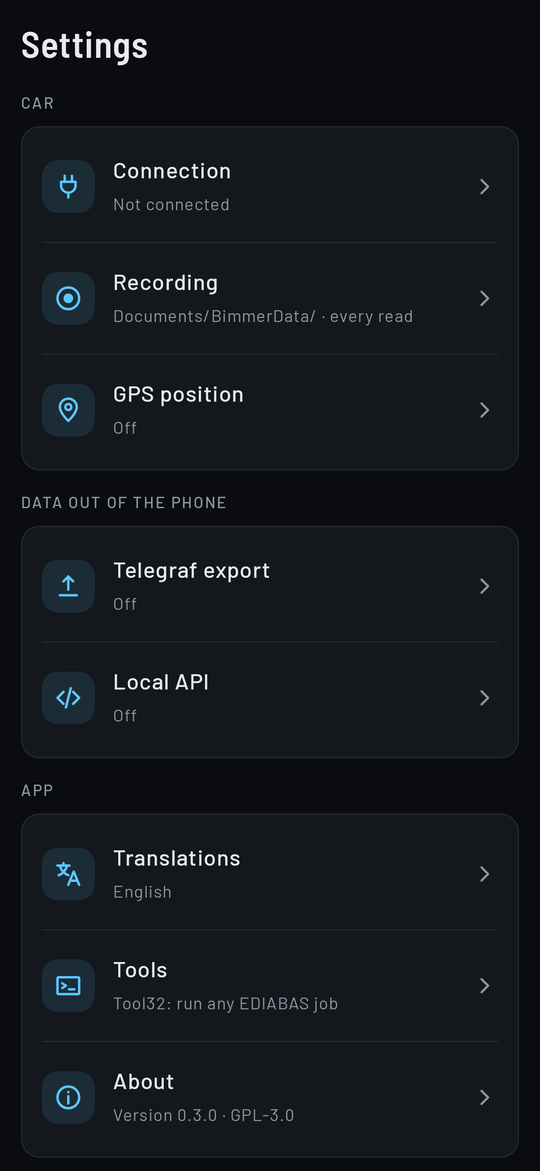
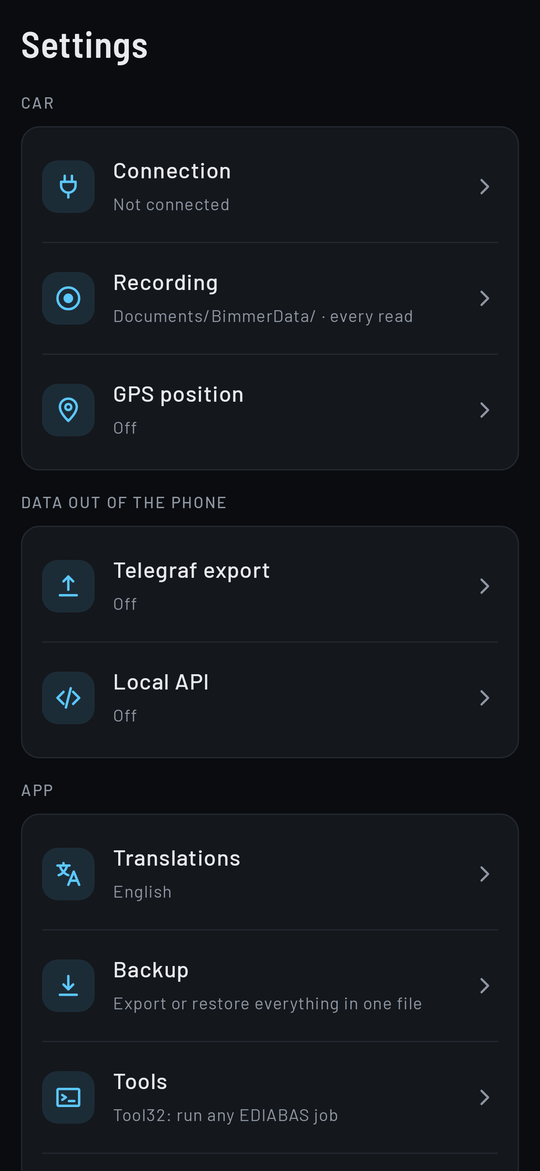
Profiles tab: the cars as chips at the top, then the car shown and its profiles; version 0.4.0

diff --git a/app/src/main/kotlin/io/github/jonathangtd/bimmerdata/cars/CarTabScreen.kt b/app/src/main/kotlin/io/github/jonathangtd/bimmerdata/cars/CarTabScreen.kt
@@ -83,10 +83,11 @@ private sealed interface CarTabSheet {
 }
 
 /**
- * Car tab: the car shown (its ECU list, last detection, "Detect ECUs" and its ECU list editor,
- * rename), then its profiles with the active one marked (activate, create, edit, duplicate, copy to
- * another car, export, import and delete with undo), then My cars to change or add a car. Without
- * a car: how to get one. Shares the dashboard's view model (same activity), so a change here is
+ * Profiles tab: the cars as chips at the top (the shown one marked; a tap shows another car, then
+ * "Add" and "Manage" = My cars), the car shown (its ECU list, last detection, "Detect ECUs" and its
+ * ECU list editor, rename), then its profiles with the active one marked (activate, create, edit,
+ * duplicate, copy to another car, export, import and delete with undo). Without a car shown: the
+ * cars only, no profile. Shares the dashboard's view model (same activity), so a change here is
  * what the dashboard and Android Auto show.
  */
 @Composable
@@ -157,13 +158,14 @@ fun CarTabScreen(vm: DashboardViewModel = viewModel()) {
         ),
         onMyCars = navigator.openCars,
         onAddCar = { sheet = CarTabSheet.AddCar },
+        onSelectCar = { id -> scope.io { book.select(id) } },
         onCancel = repo::cancel,
         onDismissMessage = repo::dismissMessage,
     )
 
     Box(Modifier.fillMaxSize().background(Cockpit.Background)) {
         CarTabContent(
-            car = selectedCar, cars = state.garage.vehicles.size, state = state, set = profiles,
+            car = selectedCar, cars = state.garage.vehicles, state = state, set = profiles,
             onActivate = activate, onNew = { sheet = CarTabSheet.Edit(null) }, onImport = ::importProfile, actions = actions, carActions = carActions,
         )
         SnackbarHost(snackbar, Modifier.align(Alignment.BottomCenter).padding(16.dp))
@@ -230,15 +232,17 @@ internal class CarTabActions(
     val car: CarCardActions = CarCardActions(),
     val onMyCars: () -> Unit = {},
     val onAddCar: () -> Unit = {},
+    /** Shows another car (the chips at the top). */
+    val onSelectCar: (String) -> Unit = {},
     val onCancel: () -> Unit = {},
     val onDismissMessage: () -> Unit = {},
 )
 
-/** Stateless content of the Car tab (also used by the screenshot tests). [car]: the car shown, null = none yet; [cars]: how many. */
+/** Stateless content of the Profiles tab (also used by the screenshot tests). [car]: the car shown, null = none yet; [cars]: every car. */
 @Composable
 internal fun CarTabContent(
     car: Vehicle?,
-    cars: Int,
+    cars: List<Vehicle>,
     state: VehicleState,
     set: ProfileSet,
     onActivate: (String) -> Unit,
@@ -253,9 +257,11 @@ internal fun CarTabContent(
             .windowInsetsPadding(WindowInsets.safeDrawing.only(WindowInsetsSides.Top + WindowInsetsSides.Horizontal)),
     ) {
         Text(
-            stringResource(R.string.nav_car), color = Cockpit.Text, fontSize = 28.sp, fontWeight = FontWeight.SemiBold,
+            stringResource(R.string.nav_profiles), color = Cockpit.Text, fontSize = 28.sp, fontWeight = FontWeight.SemiBold,
             fontFamily = BarlowCondensed, modifier = Modifier.padding(start = 16.dp, end = 16.dp, top = 16.dp, bottom = 8.dp),
         )
+        // the cars first: the profiles below are the shown car's; one tap shows another car
+        CarChips(cars, car?.id, carActions.onSelectCar, carActions.onAddCar, carActions.onMyCars)
         if (car == null) {
             Column(Modifier.padding(horizontal = 16.dp), verticalArrangement = Arrangement.spacedBy(8.dp)) {
                 state.message?.let { m -> MessageCard(messageText(m), m.error, carActions.onDismissMessage) }
@@ -298,7 +304,32 @@ internal fun CarTabContent(
                     PillButton(stringResource(R.string.profile_import), onClick = onImport, icon = R.drawable.ic_upload, modifier = Modifier.weight(1f))
                 }
             }
-            item(key = "my-cars") { MyCarsRow(cars, carActions.onMyCars, Modifier.padding(top = 14.dp)) }
         }
+    }
+}
+
+/**
+ * The cars as one scrollable row of chips: the shown one in the accent color, a tap on another
+ * shows it (its profiles below); then "Add a car" and "Manage" (My cars: detect, ECU lists,
+ * rename, delete).
+ */
+@Composable
+internal fun CarChips(cars: List<Vehicle>, shownId: String?, onSelect: (String) -> Unit, onAdd: () -> Unit, onManage: () -> Unit) {
+    androidx.compose.foundation.lazy.LazyRow(
+        Modifier.fillMaxWidth().padding(bottom = 10.dp),
+        contentPadding = PaddingValues(horizontal = 16.dp),
+        horizontalArrangement = Arrangement.spacedBy(8.dp),
+    ) {
+        items(cars, key = { it.id }) { c ->
+            val shown = c.id == shownId
+            PillButton(
+                c.label, onClick = { if (!shown) onSelect(c.id) },
+                icon = if (shown) R.drawable.ic_check else R.drawable.ic_profile,
+                color = if (shown) Cockpit.OnAccent else Cockpit.Text,
+                background = if (shown) Cockpit.Accent else Cockpit.Card,
+            )
+        }
+        item(key = "add") { PillButton(stringResource(R.string.cars_add_short), onClick = onAdd, icon = R.drawable.ic_add) }
+        if (cars.isNotEmpty()) item(key = "manage") { PillButton(stringResource(R.string.cars_manage), onClick = onManage, icon = R.drawable.ic_settings) }
     }
 }

diff --git a/app/src/main/kotlin/io/github/jonathangtd/bimmerdata/cars/CarCard.kt b/app/src/main/kotlin/io/github/jonathangtd/bimmerdata/cars/CarCard.kt
@@ -118,23 +118,3 @@ internal fun CarCard(car: Vehicle, busy: Boolean, actions: CarCardActions, modif
         }
     }
 }
-
-/** Last row of the Car tab: My cars, to change car or add one ([cars]: how many there are). */
-@Composable
-internal fun MyCarsRow(cars: Int, onClick: () -> Unit, modifier: Modifier = Modifier) {
-    Surface(color = Cockpit.Card, shape = RoundedCornerShape(16.dp), modifier = modifier.fillMaxWidth()) {
-        Row(
-            Modifier.fillMaxWidth().heightIn(min = 64.dp).clickable(role = Role.Button, onClick = onClick).padding(horizontal = 16.dp, vertical = 10.dp),
-            verticalAlignment = Alignment.CenterVertically,
-        ) {
-            Column(Modifier.weight(1f)) {
-                Text(stringResource(R.string.cars_open), color = Cockpit.Text, fontSize = 17.sp, fontFamily = BarlowCondensed, fontWeight = FontWeight.SemiBold)
-                Text(
-                    if (cars > 1) pluralStringResource(R.plurals.car_my_cars_hint, cars, cars) else stringResource(R.string.car_my_cars_hint_one),
-                    color = Cockpit.Muted, fontSize = 13.sp,
-                )
-            }
-            Icon(painterResource(R.drawable.ic_chevron_right), contentDescription = null, tint = Cockpit.Muted, modifier = Modifier.size(22.dp))
-        }
-    }
-}

diff --git a/app/src/main/kotlin/io/github/jonathangtd/bimmerdata/ui/AppRoot.kt b/app/src/main/kotlin/io/github/jonathangtd/bimmerdata/ui/AppRoot.kt
@@ -74,14 +74,14 @@ import io.github.jonathangtd.bimmerdata.settings.SettingsScreen
 enum class AppTab(@param:DrawableRes val icon: Int, @param:StringRes val label: Int) {
     Dashboard(R.drawable.ic_dashboard, R.string.nav_dashboard),
     Graph(R.drawable.ic_graph, R.string.nav_graph),
-    Car(R.drawable.ic_profile, R.string.nav_car),
+    Car(R.drawable.ic_profile, R.string.nav_profiles),
     Faults(R.drawable.ic_faults, R.string.nav_faults),
     Settings(R.drawable.ic_settings, R.string.nav_settings),
 }
 
 /**
  * Top-level screens with a bottom navigation bar (hidden while editing the dashboard layout).
- * The Car tab holds the car shown and its profiles. Tool32, the API documentation and My cars are
+ * The Profiles tab (enum [AppTab.Car]) holds the cars, the car shown and its profiles. Tool32, the API documentation and My cars are
  * secondary screens ([AppOverlay]) opened through [LocalAppNavigator]: from Settings › Tools, from
  * an ECU's detail with its SGBD selected, from the Car tab ("My cars") and the profile switch
  * ("Change car"). At start: the Car tab when there is no car yet, My cars when there are several.

diff --git a/app/src/main/kotlin/io/github/jonathangtd/bimmerdata/dashboard/ui/DashboardScreen.kt b/app/src/main/kotlin/io/github/jonathangtd/bimmerdata/dashboard/ui/DashboardScreen.kt
@@ -175,7 +175,7 @@ fun DashboardScreen(onEditingChange: (Boolean) -> Unit = {}, vm: DashboardViewMo
                     if (n.profile != null) res.getString(R.string.cars_switched, n.car, n.profile) else res.getString(R.string.cars_switched_no_profile, n.car),
                 )
                 is ProfileNotice.NewCar -> message(
-                    res.getString(R.string.cars_new_detected, n.car), actionLabel = res.getString(R.string.nav_car), action = { navigator.openCar() },
+                    res.getString(R.string.cars_new_detected, n.car), actionLabel = res.getString(R.string.nav_profiles), action = { navigator.openCar() },
                 )
                 is ProfileNotice.Suggest -> message(
                     res.getString(R.string.profile_suggest, n.name), actionLabel = res.getString(R.string.profile_suggest_action),

diff --git a/app/src/test/kotlin/io/github/jonathangtd/bimmerdata/dashboard/ui/ProfilesScreenshotTest.kt b/app/src/test/kotlin/io/github/jonathangtd/bimmerdata/dashboard/ui/ProfilesScreenshotTest.kt
@@ -95,7 +95,7 @@ class ProfilesScreenshotTest {
 
     /** The Car tab: the car card, then its profiles, then My cars. */
     private fun tab(name: String, profiles: ProfileSet = e90) = capture(name, height = 1400) {
-        CarTabContent(car, cars = 2, state = VehicleState(), set = profiles, onActivate = {}, onNew = {}, onImport = {}, actions = noActions, carActions = CarTabActions())
+        CarTabContent(car, cars = listOf(car, Vehicle("car-track", "Track car", series = "E46")), state = VehicleState(), set = profiles, onActivate = {}, onNew = {}, onImport = {}, actions = noActions, carActions = CarTabActions())
     }
 
     private fun switchSheet(name: String) = capture(name, height = 620) {

diff --git a/app/src/test/kotlin/io/github/jonathangtd/bimmerdata/ReadmeScreenshotTest.kt b/app/src/test/kotlin/io/github/jonathangtd/bimmerdata/ReadmeScreenshotTest.kt
@@ -319,7 +319,7 @@ class ReadmeScreenshotTest {
             ecus = listOf("dme", "egs", "dsc", "kombi").mapIndexed { i, s -> VehicleEcu(0x12 + i, s.uppercase(), sgbd = s) },
         )
         CarTabContent(
-            car, cars = 2, state = VehicleState(), set = profiles.forCar("car-demo"), onActivate = {}, onNew = {}, onImport = {},
+            car, cars = listOf(car, Vehicle("car-other", "Second car")), state = VehicleState(), set = profiles.forCar("car-demo"), onActivate = {}, onNew = {}, onImport = {},
             actions = ProfileActions({}, {}, {}, {}), carActions = CarTabActions(),
         )
     }

diff --git a/app/src/test/kotlin/io/github/jonathangtd/bimmerdata/cars/CarsScreenshotTest.kt b/app/src/test/kotlin/io/github/jonathangtd/bimmerdata/cars/CarsScreenshotTest.kt
@@ -71,7 +71,7 @@ class CarsScreenshotTest {
 
     @Composable
     private fun CarTab(car: Vehicle?, state: VehicleState) = CarTabContent(
-        car, cars = rows.size, state = state, set = ProfileSet(), onActivate = {}, onNew = {}, onImport = {},
+        car, cars = rows.map { it.car }, state = state, set = ProfileSet(), onActivate = {}, onNew = {}, onImport = {},
         actions = ProfileActions({}, {}, {}, {}), carActions = CarTabActions(),
     )
 

diff --git a/README.md b/README.md
@@ -18,7 +18,7 @@ Rendered from the app with the built-in simulation (demo data, English UI).
   <tr>
     <td align="center"><img src="docs/screenshots/dashboard.png" width="250" alt="Card dashboard"><br><sub>Card dashboard: dials, bars, trends</sub></td>
     <td align="center"><img src="docs/screenshots/card_picker.png" width="250" alt="Card picker"><br><sub>Picking a measurement of the profile's ECUs</sub></td>
-    <td align="center"><img src="docs/screenshots/profiles.png" width="250" alt="Car tab"><br><sub>Car tab: the car, its ECUs, its profiles</sub></td>
+    <td align="center"><img src="docs/screenshots/profiles.png" width="250" alt="Profiles tab"><br><sub>Profiles tab: your cars, the car shown, its profiles</sub></td>
   </tr>
   <tr>
     <td align="center"><img src="docs/screenshots/faults.png" width="250" alt="Fault memory of every ECU"><br><sub>Fault memory of every ECU of the car</sub></td>
@@ -89,25 +89,24 @@ its fault reports; one car is shown at a time (the profiles, the Faults tab and 
 - **At each connection** the app reads the car's VIN (about a second, read-only): a known car is
   shown with its last used profile (only proposed while a CSV recording runs), an unknown VIN
   adds a new car "Car <VIN>" (rename it). A car added by hand gets its VIN at its first connection.
-- **The Car tab** (bottom bar) shows the car: its VIN state, series and model, its ECU list and
+- **The Profiles tab** (bottom bar) shows your cars at the top (one tap shows another car, **Add**, **Manage** = My cars), then the car shown: its VIN state, series and model, its ECU list and
   last detection, with **Detect** and **ECUs** (pick them by hand) buttons and rename in ⋮; below,
-  its profiles (activate, new, import, ⋮ to edit, duplicate, copy, export, delete); at the bottom,
-  **My cars** to change car or add one. With no car yet, the tab says how to get one (connect, or
+  its profiles (activate, new, import, ⋮ to edit, duplicate, copy, export, delete). With no car yet, the tab says how to get one (connect, or
   **Add a car** by hand).
 - **My cars** lists every car (VIN state, series, profiles, ECUs; its ⋮ menu: show, detect, ECUs,
   rename, delete with its profiles after a confirmation). It opens at start when there are several
-  cars, from the Car tab and from the profile switch (**Change car**).
+  cars, from the Profiles tab and from the profile switch (**Change car**).
 - **Detect ECUs** (connected, ignition on) finds the car's ECUs and their ECU files and keeps them
   in the car's ECU list; ECUs can also be picked by hand from the imported ECU folder. A profile's
   main ECUs come from its car's list, and the card picker opens on them. When a new detection no
   longer finds an ECU that profiles use, or when you remove one by hand, the app asks before
   removing it from those profiles (with their cards); "Keep" leaves it in the list.
-- **Copy to another car** (Car tab, profile ⋮) starts another car from a tuned profile. Shared
+- **Copy to another car** (Profiles tab, profile ⋮) starts another car from a tuned profile. Shared
   profile files carry series and model, never the VIN.
 
 ## Faults
 
-The tab reads the fault memory of every ECU of the shown car's list (detected from the Car tab; a car
+The tab reads the fault memory of every ECU of the shown car's list (detected from the Profiles tab; a car
 without ECU list gets a one-tap **Detect ECUs** here). The last read stays readable away from the
 car and can be shared. The car's ECUs also come first in the card picker and get their
 translations downloaded.

diff --git a/docs/API.md b/docs/API.md
@@ -298,7 +298,7 @@ adapter CAN mode add `403 refused_on_phone`, `408 confirmation_timeout`, `409 ve
 
 ## Set up the app entirely through the API
 
-Everything the Settings screens, the Car tab, My cars and the Graph tab do can be done
+Everything the Settings screens, the Profiles tab, My cars and the Graph tab do can be done
 through the API, so an agent can set BimmerData up while the user does not touch the phone,
 except for the few steps Android reserves to the user (listed below). Grant the `read`, `layout`
 and `config` scopes for this (and `diag` to detect a car's ECUs; Settings › Local API: that first
@@ -550,7 +550,7 @@ Scope `diag` (off by default; Settings › Local API › Permissions › Diagnos
 
 - **Reading** the fault memory (`GET /diag/faults`, `GET /diag/vehicle`) answers directly. A read
   from the car takes about 1 s per ECU; the live reading goes on between the jobs. The vehicle
-  must have been detected once (Car tab › Detect, or `POST /api/v1/cars/{car}/detect`). Fault texts are the ECU file's (German).
+  must have been detected once (Profiles tab › Detect, or `POST /api/v1/cars/{car}/detect`). Fault texts are the ECU file's (German).
 - **Clearing faults** (`POST /diag/faults/clear`) and **running a job** (`POST /diag/jobs`) are
   confirmed on the phone **for every single call**, nothing is remembered:
   1. if the car is moving (above 3 km/h, from a speed measurement the app reads or the phone
